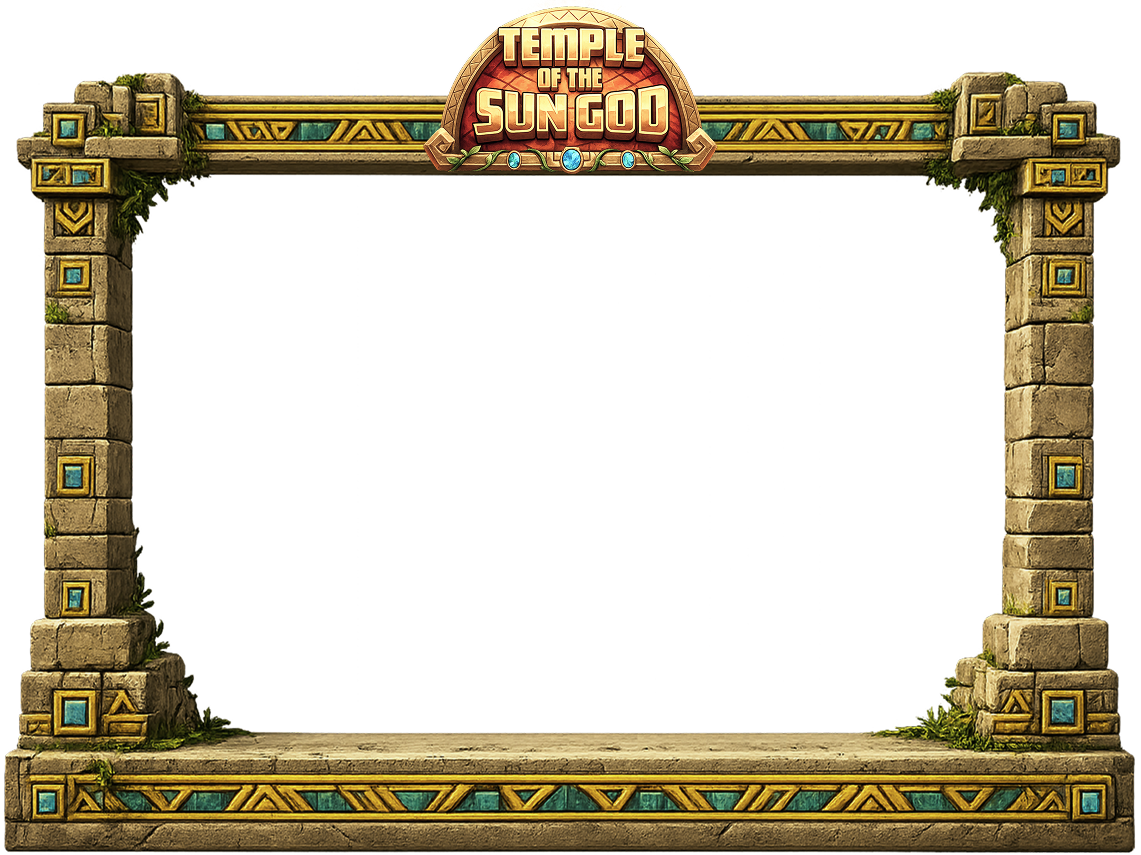
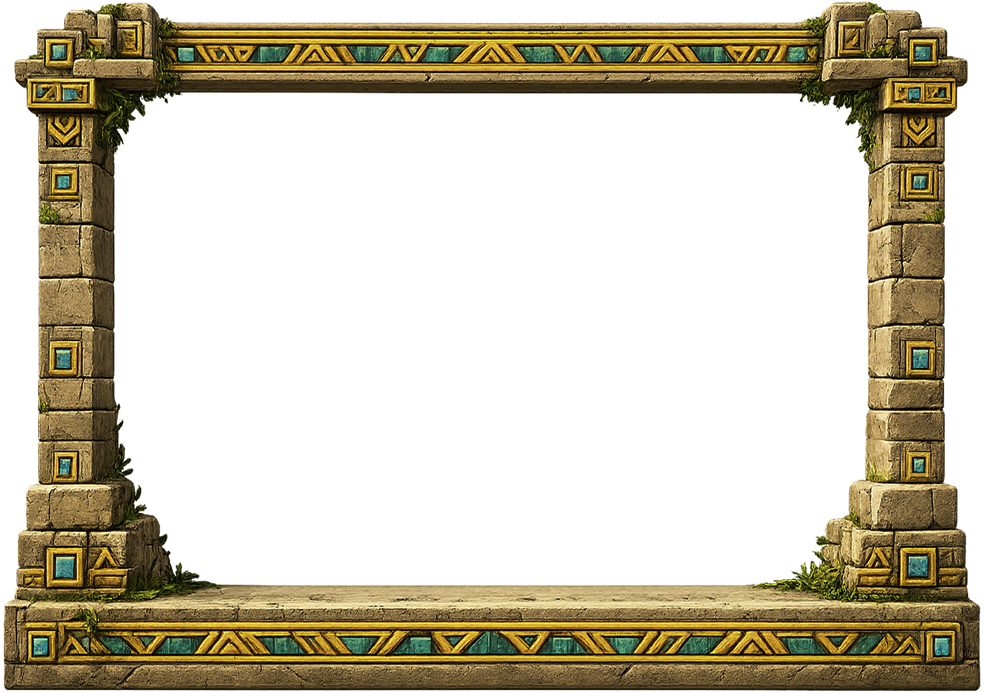
Aztec: bottom ground decal, BG gradient, layout and assets
- Bottom full-width decal under painted frame (shared bottom outset)
- Dark gradient on bg.jpg; remove decal-only overlay
- Split desktop/mobile grid and frame nudges; mobile push to decal tuning
- Smaller desktop board scale (0.74); frame sprite outsets from aztecLayout
- Updated bg/frame PNGs; add bottomimage.png

Made-with: Cursor

diff --git a/src/games/aztec/components/AztecClient.tsx b/src/games/aztec/components/AztecClient.tsx
@@ -9,7 +9,8 @@ import {
 } from '@/components/game/slotChrome';
 
 import { AztecSession, GamePhase } from '../engine/session';
-import { AztecCanvas } from '../render/AztecCanvas';
+import { AZTEC_FRAME_SPRITE_BOTTOM_OUTSET_PX } from '../render/aztecLayout';
+import { AztecCanvas, type AztecFrameRect } from '../render/AztecCanvas';
 import { AztecSettingsModal } from './AztecSettingsModal';
 import {
   preloadTFSfx,
@@ -27,6 +28,15 @@ const aztecFooterPill =
   'rounded-2xl border border-white/20 bg-black/60 shadow-[0_4px_20px_rgba(0,0,0,0.5)] backdrop-blur-md';
 
 const ASSET_BASE = import.meta.env.BASE_URL.replace(/\/?$/, '/');
+
+const AZTEC_BOTTOM_DECAL_URL = `${ASSET_BASE}aztec/bottomimage.png`;
+
+/**
+ * When true, bottom decal is pinned to the **viewport** bottom (ignores frame).
+ * When false, decal top aligns to the **painted** frame bottom: layout `frameY + frameH` plus the same
+ * bottom outset px the Pixi frame sprite uses (`AZTEC_FRAME_SPRITE_BOTTOM_OUTSET_PX`).
+ */
+const AZTEC_BOTTOM_DECAL_PIN_VIEWPORT = false;
 
 export default function AztecClient() {
   return <AztecGame />;
@@ -50,6 +60,7 @@ function AztecGame() {
   const rafRef = useRef(0);
   /** Mirrored from Pixi gameLayer each tick — HTML overlays can follow the same shake if needed. */
   const cameraShakeRef = useRef({ x: 0, y: 0 });
+  const [frameLayout, setFrameLayout] = useState<AztecFrameRect | null>(null);
 
   const refresh = useCallback(() => {
     setSnap(session.getSnapshot());
@@ -209,6 +220,8 @@ function AztecGame() {
   const canSpin = snap.phase === GamePhase.Idle && snap.balance >= snap.bet;
   const showWin = Math.round(displayedWin);
 
+  const pinAztecBottomDecalToViewport = AZTEC_BOTTOM_DECAL_PIN_VIEWPORT;
+
   return (
     <div
       className={cn(
@@ -235,6 +248,16 @@ function AztecGame() {
             aria-hidden
             style={{
               backgroundImage: `url(${ASSET_BASE}aztec/bg.jpg)`,
+            }}
+          />
+          {/* Darken lower third of the jungle BG only (not the stone decal). */}
+          <div
+            className="pointer-events-none absolute inset-x-0 bottom-0 h-[min(52vh,620px)]"
+            aria-hidden
+            style={{
+              background: isFreeSpinActive
+                ? 'linear-gradient(to top, rgba(12,6,4,0.92) 0%, rgba(28,16,10,0.55) 32%, rgba(40,24,16,0.2) 58%, transparent 100%)'
+                : 'linear-gradient(to top, rgba(2,8,18,0.9) 0%, rgba(4,14,26,0.52) 34%, rgba(8,22,36,0.18) 62%, transparent 100%)',
             }}
           />
         </div>
@@ -317,8 +340,47 @@ function AztecGame() {
           onDropComplete={onDropComplete}
           onCascadeStepComplete={onCascadeStepComplete}
           cameraShakeRef={cameraShakeRef}
+          onFrameLayout={setFrameLayout}
           className="relative z-10 h-full w-full min-h-0"
         />
+        {/* Decorative ground — default: top edge = painted frame bottom (layout + sprite bottom outset). */}
+        <div
+          className={cn(
+            'pointer-events-none absolute inset-x-0 z-[25] flex justify-center',
+            pinAztecBottomDecalToViewport && 'items-end',
+          )}
+          style={
+            pinAztecBottomDecalToViewport
+              ? {
+                  bottom: 0,
+                  paddingBottom: 'max(0px, env(safe-area-inset-bottom))',
+                }
+              : frameLayout
+                ? {
+                    top:
+                      frameLayout.y +
+                      frameLayout.h +
+                      AZTEC_FRAME_SPRITE_BOTTOM_OUTSET_PX,
+                  }
+                : {
+                    bottom: 0,
+                    paddingBottom: 'max(0px, env(safe-area-inset-bottom))',
+                  }
+          }
+        >
+          <img
+            src={AZTEC_BOTTOM_DECAL_URL}
+            alt=""
+            className={cn(
+              'h-auto w-full max-w-full select-none object-contain',
+              pinAztecBottomDecalToViewport
+                ? 'max-h-[min(42vh,320px)] object-bottom'
+                : 'object-top',
+            )}
+            draggable={false}
+            decoding="async"
+          />
+        </div>
         {/* Vignette over the whole playfield (frame + reels) so stone doesn’t “float” above the grade; keep soft. */}
         <div
           className="pointer-events-none absolute inset-0 z-[15]"

diff --git a/src/games/aztec/render/aztecStageLayout.ts b/src/games/aztec/render/aztecStageLayout.ts
@@ -31,11 +31,27 @@ const FRAME_ASPECT = QR_FRAME.w / QR_FRAME.h;
 const QR_PLAYFIELD_OFFSET_Y_AT_NATIVE = 46;
 const QR_REEL_FINE_NUDGE_Y_AT_NATIVE = 6;
 
-/** Move the 5×3 grid up (CSS px at 1×); scaled by post-process `sx` after layout. */
-const AZTEC_GRID_SHIFT_UP_CSS = 14;
+/**
+ * Move the 5×3 grid up vs the playfield (CSS px at 1×); scaled by `sx`.
+ * Desktop: large value to tuck tiles under the top stone. Mobile: slightly lower than desktop so the
+ * bottom row still clears the lower sill when the board is push-down toward the ground decal.
+ */
+const AZTEC_GRID_SHIFT_UP_DESKTOP_CSS = 72;
+/** Mobile: lower than desktop — strong “up” leaves a band under the last row inside the frame. */
+const AZTEC_GRID_SHIFT_UP_MOBILE_CSS = 50;
 
-/** Move **frame + reel grid** up together (CSS px at 1×), after centering clamp; scaled by `sx`. */
-const AZTEC_FRAME_SHIFT_UP_CSS = 12;
+/**
+ * After vertical centering: shift **frame + grid** up (CSS px at 1×), scaled by `sx`.
+ * Desktop: pull the whole board up to reduce sky above the frame. Mobile: light touch.
+ */
+const AZTEC_FRAME_SHIFT_UP_DESKTOP_CSS = 58;
+const AZTEC_FRAME_SHIFT_UP_MOBILE_CSS = 14;
+
+/**
+ * Mobile only (`cssW < 1024`): nudge **frame + tiles** down toward the bottom decal (don’t overdo — large
+ * values stretch the interior and read as a gap above the lower stone).
+ */
+const AZTEC_MOBILE_PUSH_DOWN_TO_DECAL_CSS = 50;
 
 /** Positive = shift grid left (CSS px) vs playfield. */
 const AZTEC_GRID_NUDGE_LEFT_PX = 2;
@@ -45,8 +61,8 @@ const AZTEC_CELL_SHRINK_PX = 2;
 /** Widen/tall each symbol cell by this many CSS px (total inner += REELS× / ROWS×); position nudged to keep center. */
 const AZTEC_CELL_ENLARGE_PX = 2;
 
-/** After core layout: desktop keeps board modest; mobile scales up so the stone frame fills more (can bleed). */
-const AZTEC_STAGE_VISUAL_SCALE_DESKTOP = 0.84;
+/** After core layout: desktop visual scale for frame + grid (lower = smaller board on wide screens). */
+const AZTEC_STAGE_VISUAL_SCALE_DESKTOP = 0.74;
 /** Higher = bigger frame on phones/tablets; clamped in post-process so the 5×3 stays on-screen. */
 const AZTEC_STAGE_VISUAL_SCALE_MOBILE = 0.97;
 
@@ -245,7 +261,11 @@ function applyAztecVisualPostProcess(
     const maxTop = Math.max(0, cssH - fh);
     const fyCenter = Math.floor((cssH - fh) / 2);
     let fy = Math.max(0, Math.min(maxTop, fyCenter));
-    fy -= Math.round(AZTEC_FRAME_SHIFT_UP_CSS * s);
+    const frameShiftUp = isMobile ? AZTEC_FRAME_SHIFT_UP_MOBILE_CSS : AZTEC_FRAME_SHIFT_UP_DESKTOP_CSS;
+    fy -= Math.round(frameShiftUp * s);
+    if (isMobile) {
+      fy += Math.round(AZTEC_MOBILE_PUSH_DOWN_TO_DECAL_CSS * s);
+    }
 
     const ratioW = rw > 0 ? fw / rw : 1;
     const ratioH = rh > 0 ? fh / rh : 1;
@@ -261,11 +281,12 @@ function applyAztecVisualPostProcess(
       shrinkW / 2 -
       AZTEC_GRID_NUDGE_LEFT_PX -
       extraW / 2;
+    const gridShiftUp = isMobile ? AZTEC_GRID_SHIFT_UP_MOBILE_CSS : AZTEC_GRID_SHIFT_UP_DESKTOP_CSS;
     const innerY =
       fy +
       relIY * ratioH +
       shrinkH / 2 -
-      Math.round(AZTEC_GRID_SHIFT_UP_CSS * s) -
+      Math.round(gridShiftUp * s) -
       extraH / 2;
 
     const gap = 0;

diff --git a/src/games/aztec/render/drawGrid.ts b/src/games/aztec/render/drawGrid.ts
@@ -20,7 +20,11 @@ import {
   getSpinExplodeOrphans,
 } from './gridAnimations';
 import { getAztecSymbolTexture } from './aztecSymbolTextures';
-import { AZTEC_FRAME_SPRITE_TOP_OUTSET_PX, QR_DEBUG_SHOW_REEL_MASK } from './aztecLayout';
+import {
+  AZTEC_FRAME_SPRITE_BOTTOM_OUTSET_PX,
+  AZTEC_FRAME_SPRITE_TOP_OUTSET_PX,
+  QR_DEBUG_SHOW_REEL_MASK,
+} from './aztecLayout';
 import {
   computeAztecStageLayout,
   type AztecStageLayout,
@@ -56,9 +60,8 @@ export function computeGridLayout(canvasW: number, canvasH: number): GridLayout 
 
 const FRAME_URL = `${aztecPublicBase()}aztec/frame.png`;
 
-/** Draw frame art slightly past the layout box: +2px each side, small top (see `AZTEC_FRAME_SPRITE_TOP_OUTSET_PX`), +3px below. */
-const AZTEC_FRAME_OUTSET_X = 2;
-const AZTEC_FRAME_OUTSET_BOTTOM = 7;
+/** Draw frame art slightly past the layout box: +4px each side (was +2; extra 2px/side), +3px below. */
+const AZTEC_FRAME_OUTSET_X = 4;
 
 let cachedFrameTex: Texture | null | undefined;
 let frameSprite: Sprite | null = null;
@@ -474,7 +477,7 @@ export function updateGridScene(
       );
       frameSprite.width = stage.frameW + 2 * AZTEC_FRAME_OUTSET_X;
       frameSprite.height =
-        stage.frameH + AZTEC_FRAME_SPRITE_TOP_OUTSET_PX + AZTEC_FRAME_OUTSET_BOTTOM;
+        stage.frameH + AZTEC_FRAME_SPRITE_TOP_OUTSET_PX + AZTEC_FRAME_SPRITE_BOTTOM_OUTSET_PX;
     }
     bgGfx.clear();
     const inner = inFreeSpins ? 0x2a1810 : 0x141210;

diff --git a/src/games/aztec/render/aztecLayout.ts b/src/games/aztec/render/aztecLayout.ts
@@ -16,6 +16,9 @@ export const QR_FRAME = { w: 1119, h: 722 } as const;
  */
 export const AZTEC_FRAME_SPRITE_TOP_OUTSET_PX = 0;
 
+/** Extra px below layout `frameH` when drawing `frame.png` — must match `drawGrid` sprite height. */
+export const AZTEC_FRAME_SPRITE_BOTTOM_OUTSET_PX = 7;
+
 /** Native pixel size of `public/aztec/mask.png` — must match file; assumed centered on frame in layout math */
 export const QR_MASK = { w: 899, h: 544 } as const;
 